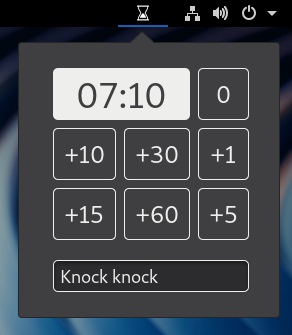
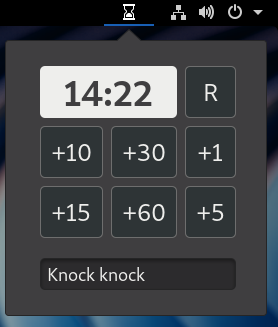
upd: ui

diff --git a/stylesheet.css b/stylesheet.css
@@ -1,22 +1,11 @@
-.number-button {
-    border-image: none;
-    background-image: none;
-    background-color: #3f3e40;
+.button {
     border-radius: 5px;
     border-width: 1px;
-    border-color: #eeeeec;
     box-shadow: none;
+    border-color: #6e6e6e;
     margin: 4px;
-    padding: 10px;  
-    /* label */
-    color: #eeeeec;
-    text-shadow: none;
+    padding: 10px;
     font-size: 24px;
-}
-
-.number-button:active {
-    background-color: #eeeeec;
-    color: #3f3e40;
 }
 
 .time-label {
@@ -26,6 +15,7 @@
     background-color: #eeeeec;
     color: #3f3e40;
     font-size: 36px;
+    font-weight: bold;
     text-align: center;
 }
 
@@ -56,7 +46,7 @@
 }
 
 .message-close-button:active {
-    background-color: #3f3e40;
+   background-color: #3f3e40;
 }
 
 .message-layout {
@@ -71,7 +61,7 @@
 .message-entry {
     border-radius: 5px;
     margin: 16px 4px 4px 4px;
-    border: solid 1px #eeeeec;
+    border: solid 1px;
     font-size: 18px;
     /* don't allow resize entry by content */
     max-width: 1px; 

diff --git a/extension.js b/extension.js
@@ -153,7 +153,7 @@ var ReminderAlarmClock = class ReminderAlarmClock extends PanelMenu.Button {
     }
 
     _createButton(label) {
-        let button = new St.Button({ label: label, style_class: 'number-button' });
+        let button = new St.Button({ label: label, style_class: 'button' });
         button.connect('clicked', () => {
             if (button.label == ResetLabel) {
                 this.alarmClock.reset();
